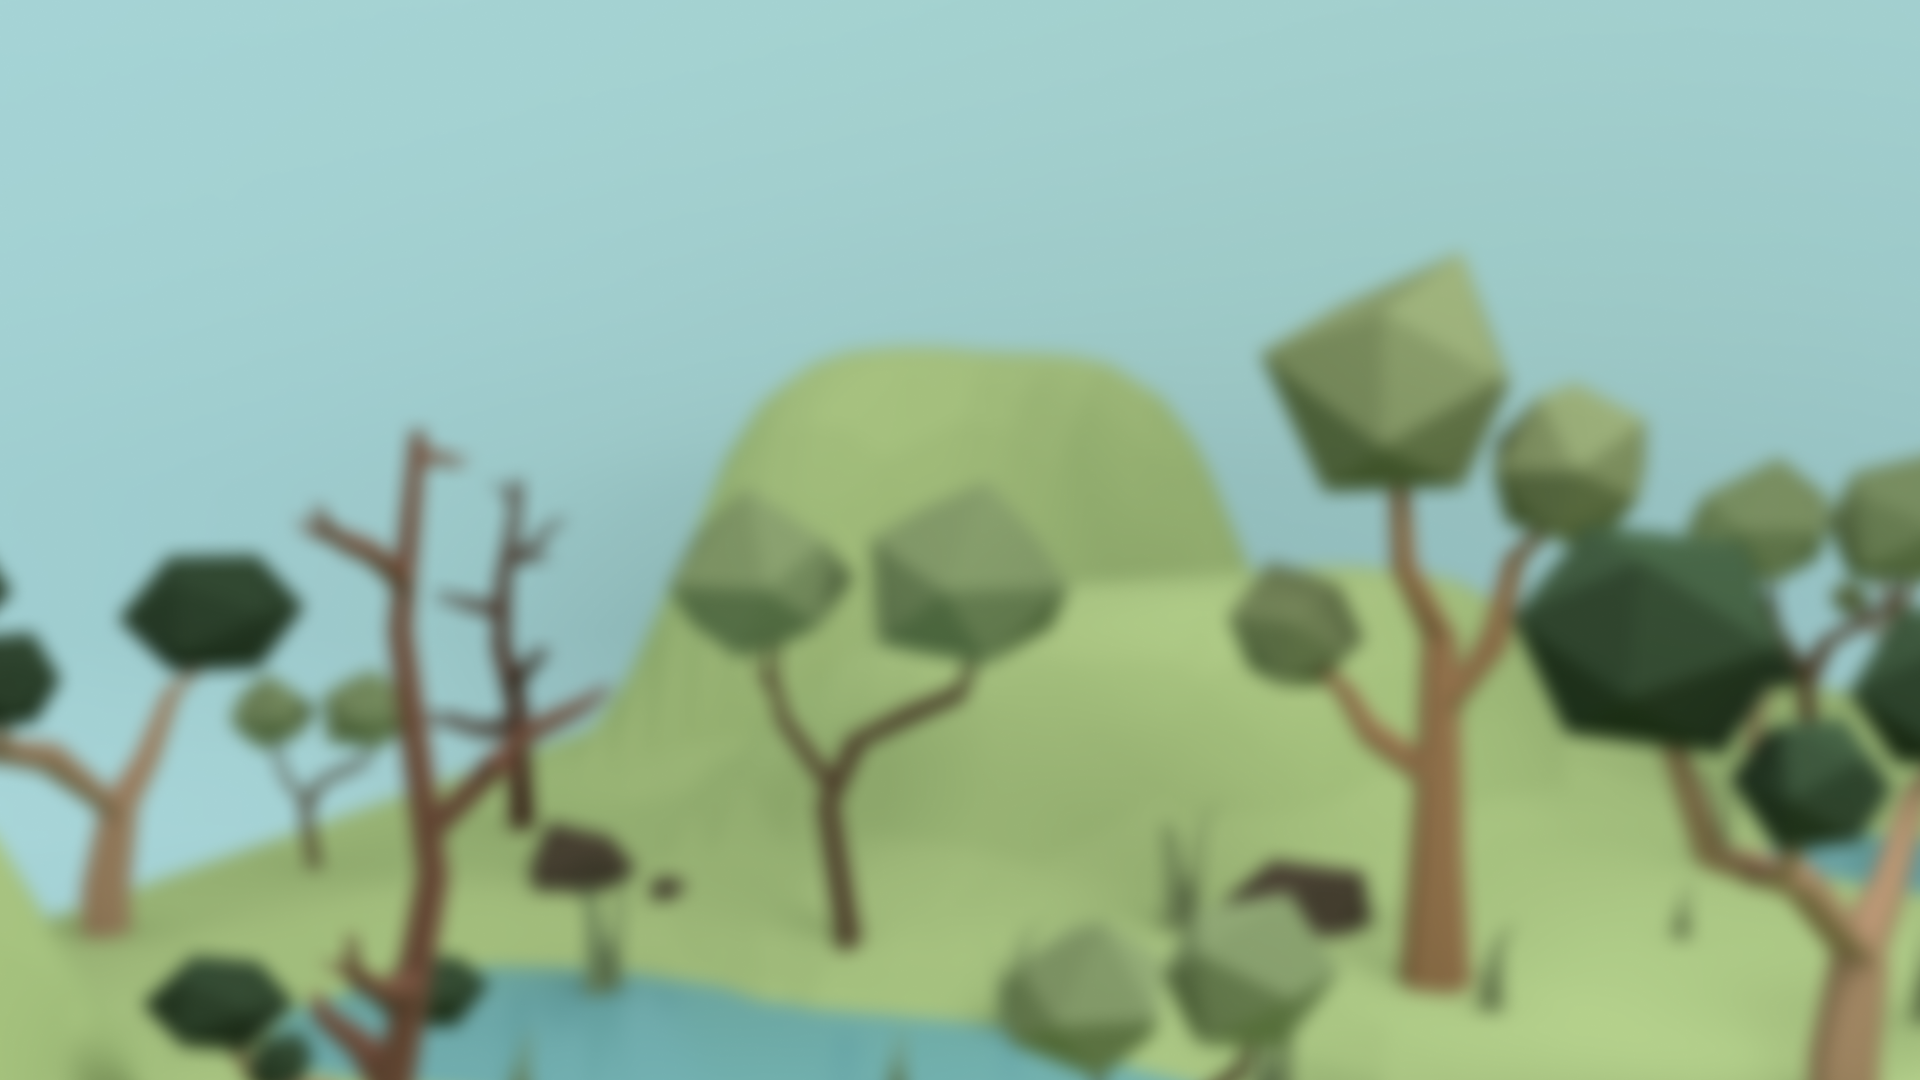
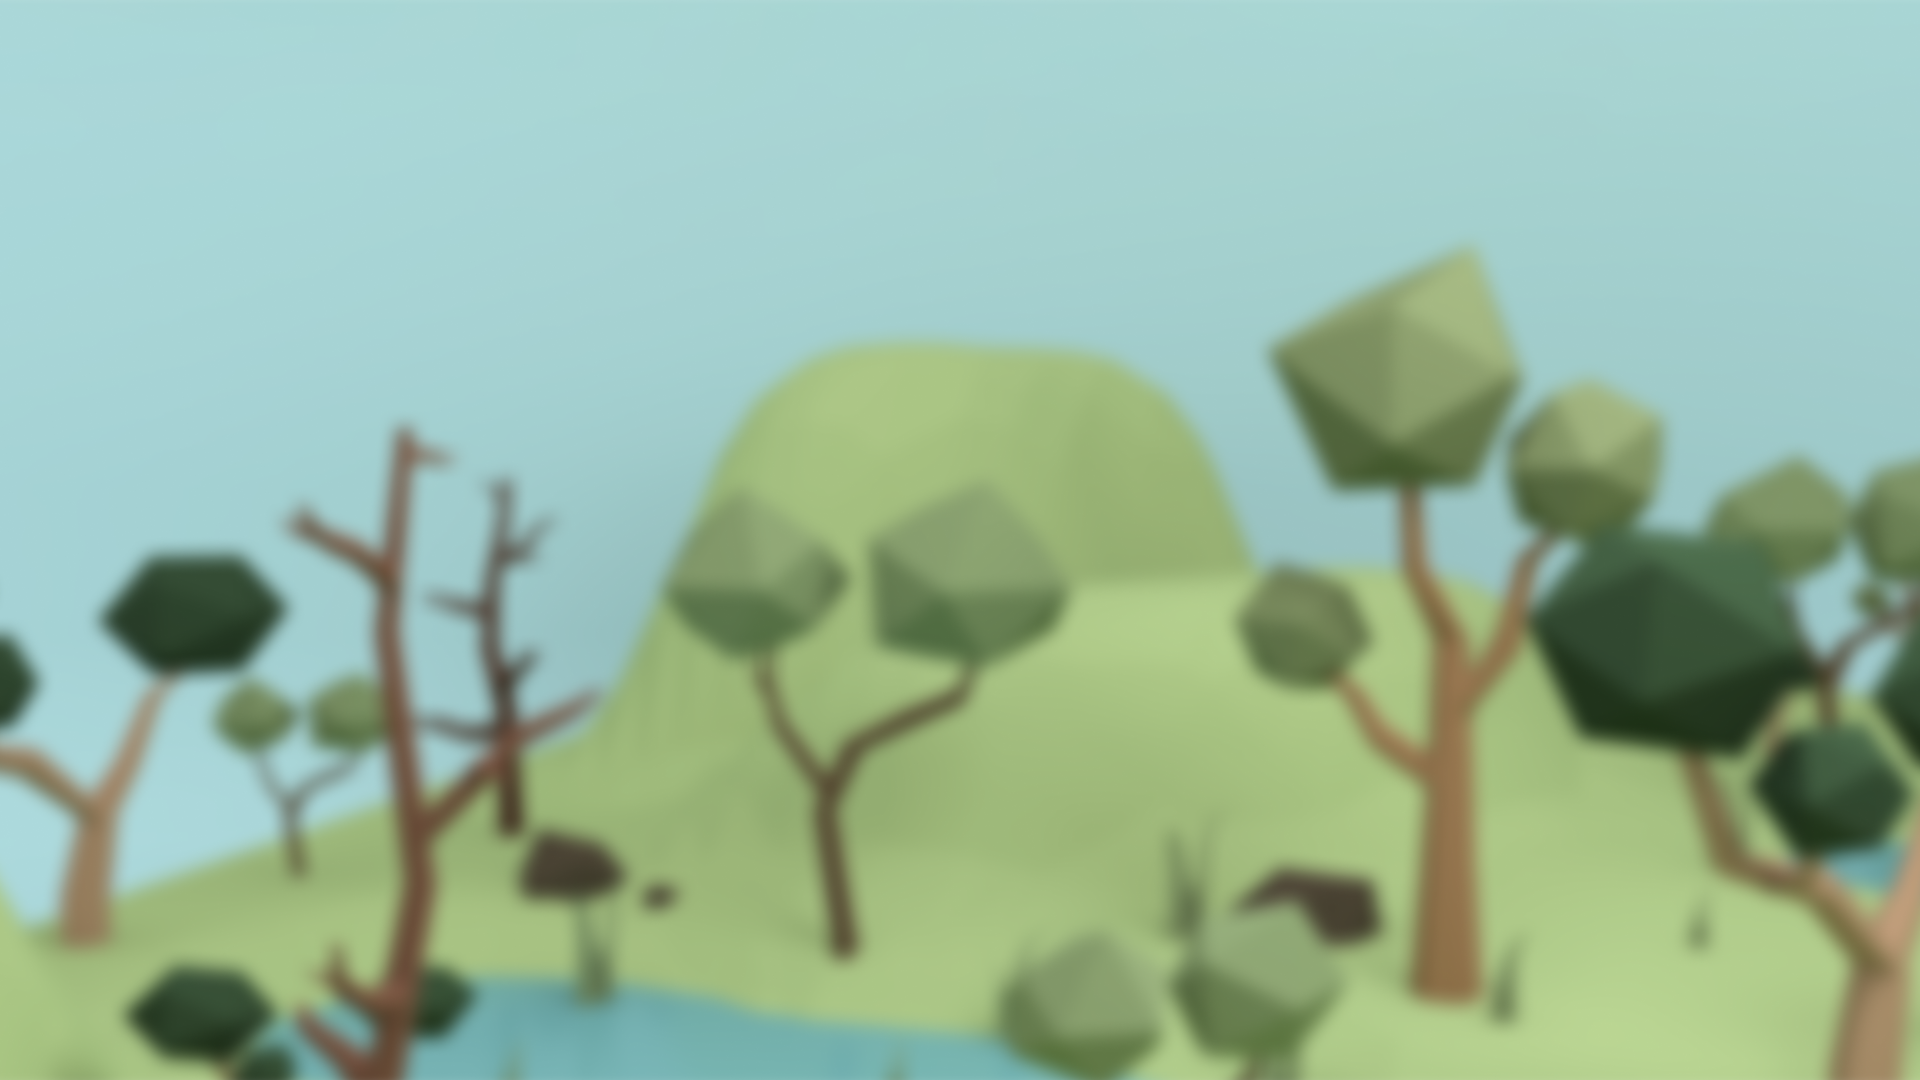
changes to elephant  bg images

diff --git a/public/grassland/css/grassland-device-stylesheet.css b/public/grassland/css/grassland-device-stylesheet.css
@@ -56,7 +56,7 @@ a{
   body {
     background-image: url("/imgs/grassland_background_blur.png");
     background-repeat: no-repeat;
-    background-color: #a4d2d2;
+    background-color: #a9d6d5;
     background-position: 50%;
     background-position-x: center;
     background-size: 100%;
@@ -191,7 +191,7 @@ p {
     body {
         background-image: url("/imgs/grassland_background_blur.png");
         background-repeat: no-repeat;
-        background-color: #a4d2d2;
+        background-color: #a9d6d5;
         background-position: 50%;
         background-position-x: center;
         background-size: 325%;

diff --git a/public/grassland/css/grassland-mobile-stylesheet.css b/public/grassland/css/grassland-mobile-stylesheet.css
@@ -26,7 +26,7 @@ a{
 body {
     background-image: url("/imgs/grassland_background_blur.png");
     background-repeat: no-repeat;
-    background-color: #a4d2d2;
+    background-color: #a9d6d5;
     background-position: 50%;
     background-position-x: center;
     background-size: 100%;
@@ -161,7 +161,7 @@ p {
     body {
         background-image: url("/imgs/grassland_background_blur.png");
         background-repeat: no-repeat;
-        background-color: #a4d2d2;
+        background-color: #a9d6d5;
         background-position: 50%;
         background-position-x: center;
         background-size: 325%;

diff --git a/public/grassland/css/grassland-desktop-stylesheet.css b/public/grassland/css/grassland-desktop-stylesheet.css
@@ -36,7 +36,7 @@ a{
 body {
     background-image: url("/imgs/grassland_background_blur.png");
     background-repeat: no-repeat;
-    background-color: #a4d2d2;
+    background-color: #a9d6d5;
     background-position: 50%;
     background-position-x: center;
     background-size: 100%;
